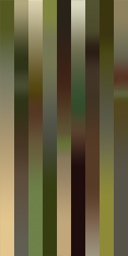
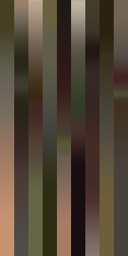
Terrain texture working

diff --git a/RTS/src/resources/BiomeRepository.cpp b/RTS/src/resources/BiomeRepository.cpp
@@ -35,23 +35,25 @@ void BiomeRepository::onRegisteredAsset(AssetID id) {
 void BiomeRepository::onAllAssetTypesRegistered() {
     ASSERT_RENDER_THREAD();
 
-    std::map<AssetID, ui32> colorMapTextureIDs;
-
-    // Get all texture layers
+    std::vector<AssetID> colorMapTextureIDs;
     std::vector<ui32> ssboData;
-    ssboData.reserve(mAssetRegistry.size());
+
+    // Get all unique texture layers
+    colorMapTextureIDs.reserve(mAssetRegistry.size());
+    ssboData.resize(mAssetRegistry.size());
     for (auto& asset : mAssetRegistry) {
         BiomeDef& def = *mAssets[asset.getId()];
         AssetID textureId = def.colorMapTexture.getAssetID();
-        const auto& it = colorMapTextureIDs.find(textureId);
+        const auto& it = std::find(colorMapTextureIDs.begin(), colorMapTextureIDs.end(), textureId);
         if (it != colorMapTextureIDs.end()) {
-            def.colorMapTextureIndex = it->second;
+            def.colorMapTextureIndex = *it;
         }
         else {
             def.colorMapTextureIndex = colorMapTextureIDs.size();
-            colorMapTextureIDs.emplace(textureId, colorMapTextureIDs.size());
+            colorMapTextureIDs.emplace_back(textureId);
         }
-        ssboData.emplace_back(def.colorMapTextureIndex);
+        assert(e_cast(def.uniqueId) < ssboData.size());
+        ssboData[e_cast(def.uniqueId)] = def.colorMapTextureIndex;
     }
 
     // Build array texture
@@ -59,18 +61,18 @@ void BiomeRepository::onAllAssetTypesRegistered() {
     glCreateTextures(GL_TEXTURE_2D_ARRAY, 1, &mBiomeColorMapsArrayTexture);
     glTextureStorage3D(mBiomeColorMapsArrayTexture, 1, GL_RGB8, COLOR_MAP_DIM_X, COLOR_MAP_DIM_Y, colorMapTextureIDs.size());
 
+    for (int i = 0; i < colorMapTextureIDs.size(); ++i) {
 
-    for (auto& [assetId, layerIndex] : colorMapTextureIDs) {
-
-        gli::texture2d layerData = TextureRepository::get().loadRawPngData(assetId, false);
+        gli::texture2d layerData = TextureRepository::get().loadRawPngData(colorMapTextureIDs[i], false);
         assert(layerData.extent().x == COLOR_MAP_DIM_X);
         assert(layerData.extent().y == COLOR_MAP_DIM_Y);
+        assert(layerData.format() == gli::format::FORMAT_RGB8_UNORM_PACK8);
 
         glTextureSubImage3D(mBiomeColorMapsArrayTexture,
             0,
             0,
             0,
-            layerIndex,
+            i,
             COLOR_MAP_DIM_X,
             COLOR_MAP_DIM_Y,
             1,

diff --git a/RTS/src/rendering/TerrainRenderer.cpp b/RTS/src/rendering/TerrainRenderer.cpp
@@ -52,6 +52,7 @@ void TerrainRenderer::renderTerrain(const Camera3D& camera, const boost::contain
     glUniform1f(mTerrainMaterial->mProgram.getUniform("unColorMapScale"), sDebugOptions.mGrassColorMapScale);
     glUniform1f(mTerrainMaterial->mProgram.getUniform("unBiomeBlendScale"), sDebugOptions.mBiomeBlendScale);
     glUniform1f(mTerrainMaterial->mProgram.getUniform("unBiomeBlendFrequency"), sDebugOptions.mBiomeBlendFrequency);
+    glUniform1f(mTerrainMaterial->mProgram.getUniform("unDetailTextureStrength"), sDebugOptions.mTerrainDetailTextureStrength);
 
     VGUniform positionUniform = mTerrainMaterial->mProgram.getUniform("unPosition");
     VGUniform crossfadeAlphaUniform = mTerrainMaterial->mProgram.getUniform("unCrossfadeAlpha");
@@ -64,7 +65,7 @@ void TerrainRenderer::renderTerrain(const Camera3D& camera, const boost::contain
     glUniform1i(mTerrainMaterial->mProgram.getUniform("unBiomeColorMapsTexture"), nextTextureUnit);
     glBindTextureUnit(nextTextureUnit, BiomeRepository::get().getBiomeColorMapsArrayTexture());
 
-    glBindBufferBase(GL_UNIFORM_BUFFER, BUFFER_BASE_TERRAIN_COLOR_MAPS_SSBO, BiomeRepository::get().getBiomeColorMapsShaderLookupBuffer());
+    glBindBufferBase(GL_SHADER_STORAGE_BUFFER, BUFFER_BASE_TERRAIN_COLOR_MAPS_SSBO, BiomeRepository::get().getBiomeColorMapsShaderLookupBuffer());
 
     for (auto&& terrainMesh : terrainMeshes) {
         const BoundingSphere& bounds = terrainMesh->getBoundingSphere();

diff --git a/RTS/src/ui/DebugTweakerPanel.cpp b/RTS/src/ui/DebugTweakerPanel.cpp
@@ -159,6 +159,7 @@ void DebugTweakerPanel::updateAndRender(World& world, const vg::GBuffer* activeG
         ImGui::SliderFloat("Squares Period", &sDebugOptions.mTerrainSquaresColorPeriod, 0.0f, 1.0f);
         ImGui::SliderFloat("Squares Intensity", &sDebugOptions.mTerrainSquaresIntensity, 0.0f, 1.0f);
         ImGui::SliderFloat("Blend Mult", &sDebugOptions.mTerrainBlendMult, 0.0f, 1.0f);
+        ImGui::SliderFloat("Detail Texture Str", &sDebugOptions.mTerrainDetailTextureStrength, 0.0f, 1.0f);
         ImGui::SliderFloat("Biome Blend Scale", &sDebugOptions.mBiomeBlendScale, 0.0f, 10.0f);
         ImGui::SliderFloat("Biome Blend Freq", &sDebugOptions.mBiomeBlendFrequency, 0.0f, 10.0f);
         ImGui::Separator();

diff --git a/RTS/src/rendering/mesh/mesher/builder/TerrainMeshBuilder.cpp b/RTS/src/rendering/mesh/mesher/builder/TerrainMeshBuilder.cpp
@@ -145,7 +145,7 @@ void TerrainMeshBuilder::setVertsTerrainFromPaddedHeightfield(const f32v2& world
     constexpr f32 UV_SCALE = 0.05f;
 
     { // Compute with high precision
-        f64v2 rootUVDouble = f64v2(worldPosTreeRoot + cornerPosRelativeToRoot) * f64(UV_SCALE);
+        f64v2 rootUVDouble = f64v2(worldPosTreeRoot) * f64(UV_SCALE);
         f64 intpart;
         mUVRoot.x = (f32)modf(rootUVDouble.x, &intpart);
         mUVRoot.y = (f32)modf(rootUVDouble.y, &intpart);

diff --git a/RTS/src/options/DebugOptions.cpp b/RTS/src/options/DebugOptions.cpp
@@ -43,6 +43,7 @@ DebugOptions::DebugOptions() :
     mTerrainSquaresColorPeriod(0.187f),
     mTerrainSquaresIntensity(0.0f),
     mTerrainBlendMult(0.037f),
+    mTerrainDetailTextureStrength(1.0f),
     mBiomeBlendScale(1.0f),
     mBiomeBlendFrequency(1.0f),
     mDisableTerrain(false),

diff --git a/RTS/src/options/DebugOptions.h b/RTS/src/options/DebugOptions.h
@@ -49,6 +49,7 @@ struct DebugOptions {
     f32 mTerrainSquaresColorPeriod;
     f32 mTerrainSquaresIntensity;
     f32 mTerrainBlendMult;
+    f32 mTerrainDetailTextureStrength;
     f32 mBiomeBlendScale;
     f32 mBiomeBlendFrequency;
     bool mDisableTerrain;
